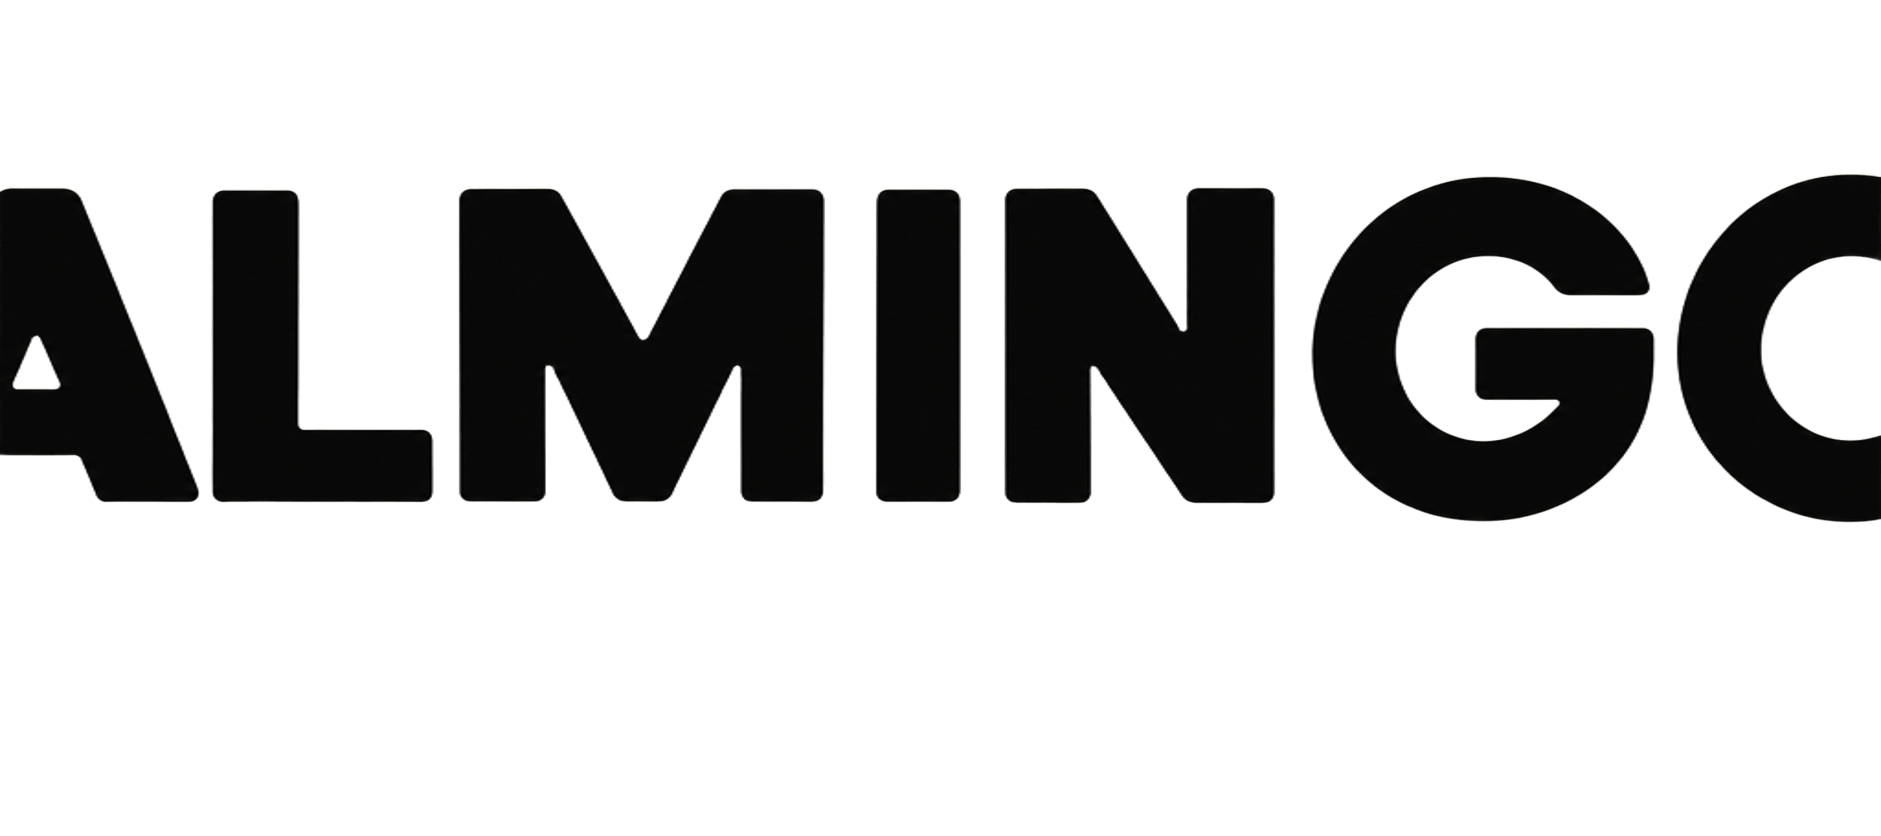
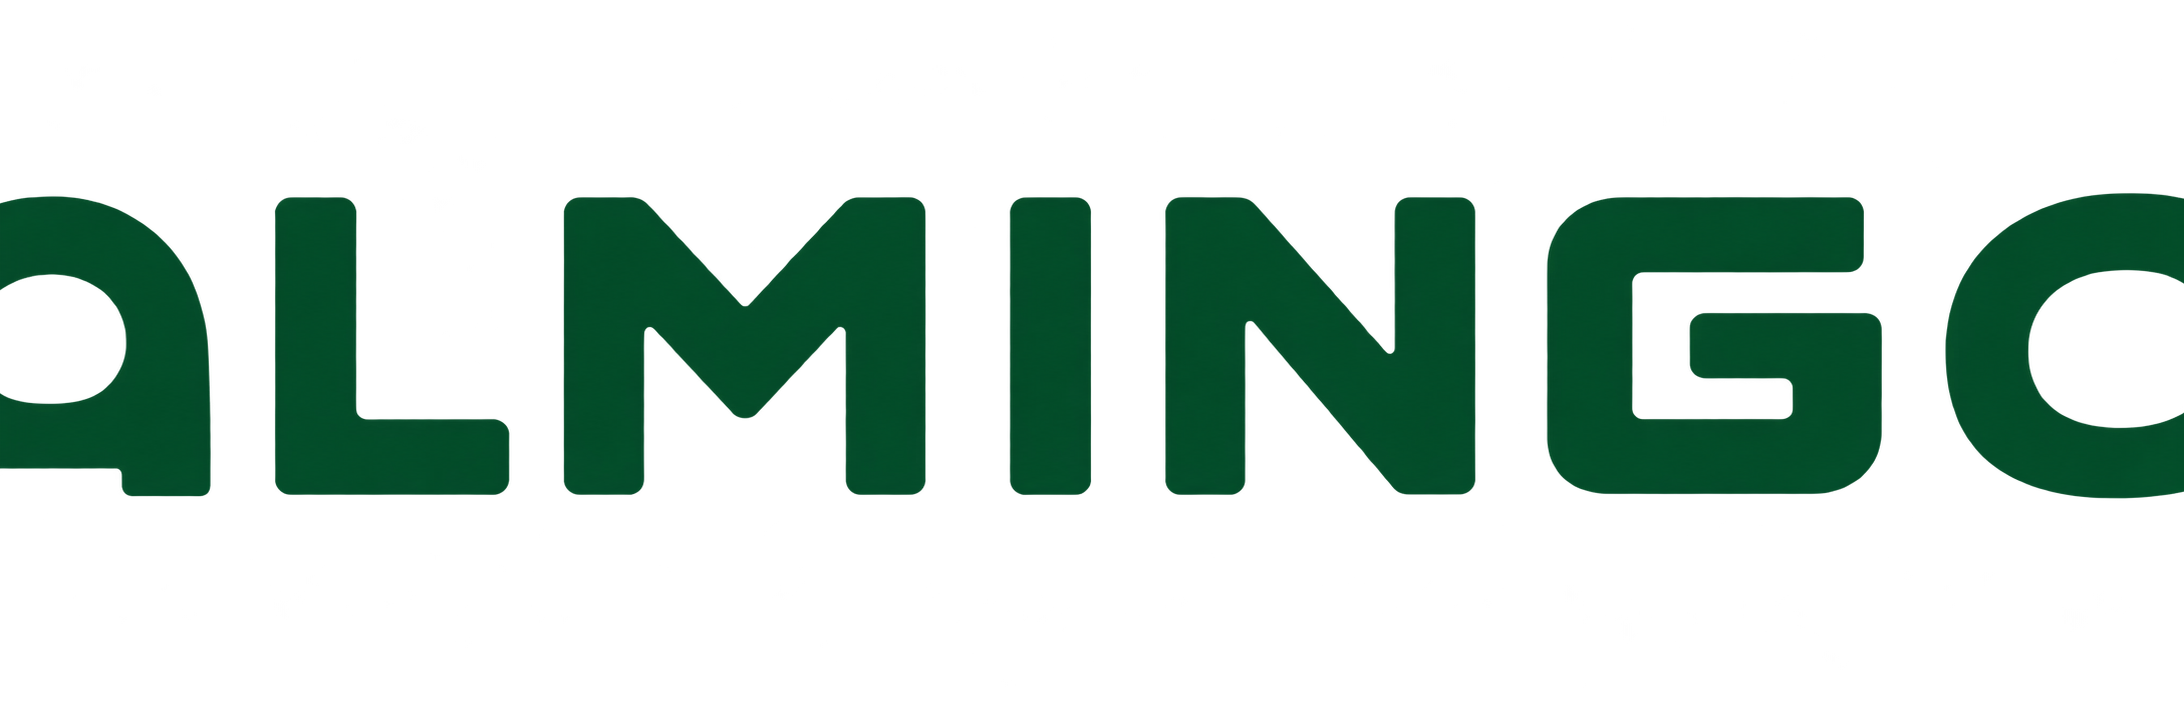
Add files via upload

diff --git a/retoAlmingo/inicio.css b/retoAlmingo/inicio.css
@@ -64,13 +64,15 @@ li a{
     flex-direction: column;
     align-items: center;
     width: 1280px;
-    height: 400px;
+    height: 800px;
     margin: 0 auto;
     justify-content: center;
     border-top: 1px solid #E2E7EC;
     border-bottom: 1px solid #E2E7EC;
     margin-bottom: 30px;
-    gap: 100px;
+}
+.titulo img{
+    width: 1920px;
 }
 h1{
     background: linear-gradient(to right, #0e503d, #5d9453, #aac966);
@@ -84,6 +86,7 @@ h2{
     font-style: italic;
     color: gray;
     opacity: 0.6;
+    z-index: 1;
 }
 .categoriaCarrusel{
     width: 1280px;
@@ -162,12 +165,13 @@ h2{
     display: flex;
     flex-direction: column;
     align-items: center;
-    border-left: 2px solid #E2E7EC;
-    border-right: 2px solid #E2E7EC;
-    border-top: 2px solid #E2E7EC;
-    border-bottom: 2px solid #E2E7EC;
+    border-left: 1px solid #E2E7EC;
+    border-right: 1px solid #E2E7EC;
+    border-top: 1px solid #E2E7EC;
+    border-bottom: 1px solid #E2E7EC;
     border-radius: 10px;
     transition: 0.2s;
+    height: 500px;
 }
 .imagen1 img{
     width: 700px;
@@ -197,4 +201,9 @@ h2{
 }
 .imagen1:hover, .imagen2:hover{
     transform: scale(1.02);
+    border-color: transparent;
+    background:linear-gradient(#ffffff, #ffffff) padding-box, linear-gradient(to bottom right, #a8d98b, #0e503d) border-box;
+}
+.footerImagen img{
+    width: 100%;
 }

diff --git a/retoAlmingo/index.html b/retoAlmingo/index.html
@@ -22,7 +22,7 @@
     </header>
     <main>
         <div class="titulo">
-            <h1>Almingo</h1>
+            <img src="images/Footer.png" alt="Imagen del footer">
             <h2>Transformamos tus ideas en soluciones digitales.</h2>
         </div>
         <div class="categoriaCarrusel">
